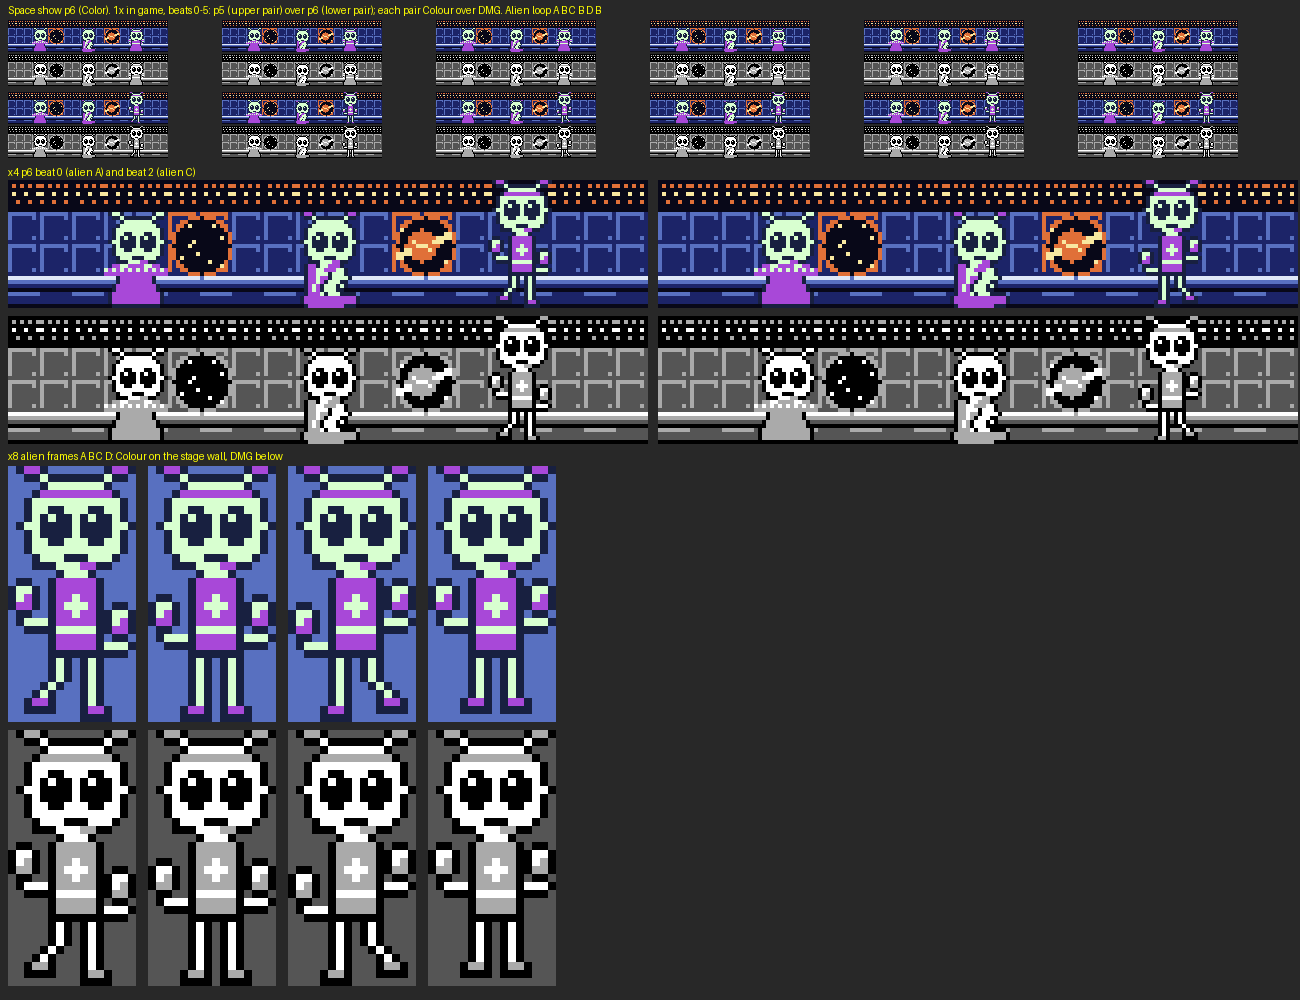
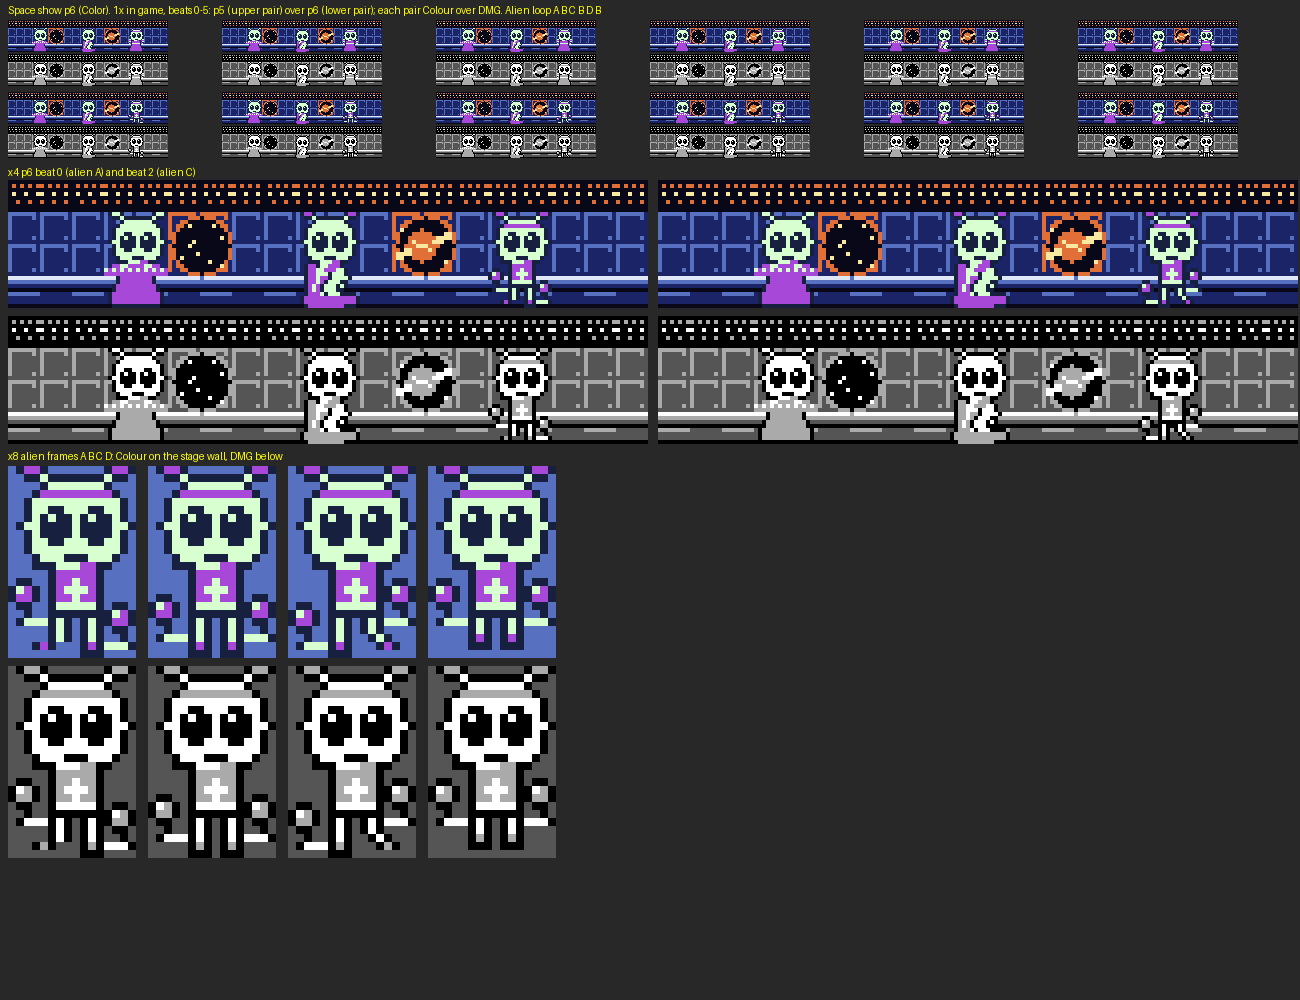
Space show p6: redo the full-body alien as 16x24 in the p5 layout (25 of 48 quarters)
Supervisor correction: the performer top stays at screen y 8. Singer and keytar are p5 frames 0-3 exactly; the alien keeps the p5 head (rows 0-12) with tunic, belt, legs and short boots in rows 13-23, and a handle between each hand and its oval maraca. Same A B C B D B loop. Concept only.

Claude-Session: https://claude.ai/code/session_01WXumg9pvGTKbXyU3qBciuY

diff --git a/docs/dev/concepts/shows_2026-11-02/space_p6prev.py b/docs/dev/concepts/shows_2026-11-02/space_p6prev.py
@@ -5,7 +5,7 @@
   space_p6prev.py sheet OUT.png   contact sheet: 1x, x4, every frame x8 (Colour and DMG)
   space_p6prev.py chk             frame sizes and the 8x16 quarter count of p6
 
-p5: 16x24 frames at strip y 8 (as the engine draws them). p6: 16x32 frames, feet on the same strip row, so row 0 is at strip y 0.
+p5: 16x24 frames at strip y 8 (as the engine draws them). p6: 16x24 frames at the same place as p5 (top at strip y 8).
 Loops: singer 0 1, keytar 2 3, alien frames 4 5 6 5 7 5 (poses A B C B D B).
 """
 import sys
@@ -32,6 +32,7 @@ def load(path, rows):
 def quarters(frames):
     qs = []
     for f in frames:
+        f = list(f) + ["." * 16] * 8
         for y0, x0 in ((0, 0), (0, 8), (16, 0), (16, 8)):
             q = tuple(r[x0:x0 + 8] for r in f[y0:y0 + 16])
             if q not in qs:
@@ -62,7 +63,7 @@ def scene6(fr, beat, cgb, base):
     im, p = base.copy(), pal()
     for k, x0 in enumerate((24, 72, 120)):
         i = (beat & 1) + 2 * k if k < 2 else LOOP_ALIEN[beat % len(LOOP_ALIEN)]
-        put(im, fr[i], x0, 0, cgb, p)
+        put(im, fr[i], x0, 8, cgb, p)
     return im
 
 
@@ -76,7 +77,7 @@ def stack(a, b, scale):
 def main():
     cmd = sys.argv[1]
     p5 = load(str(HERE / "space_show_p5.txt"), 24)
-    p6 = load(str(HERE / "space_show_p6_cgb.txt"), 32)
+    p6 = load(str(HERE / "space_show_p6_cgb.txt"), 24)
     if cmd == "chk":
         print(len(p6), "frames; quarters p6:", quarters(p6), "singer", quarters(p6[0:2]), "keytar", quarters(p6[2:4]),
               "alien", quarters(p6[4:8]))
@@ -111,12 +112,12 @@ def main():
         sh.paste(right(b, 4), (8 + i * 650, 180))
     d.text((8, 450), "x8 alien frames A B C D: Colour on the stage wall, DMG below", fill=(255, 255, 0))
     for i, fi in enumerate((4, 5, 6, 7)):
-        a = Image.new("RGB", (16, 32), ns["hexrgb"](pj["stage_a"]["hex"][1]))
-        g = Image.new("RGB", (16, 32), ns["DMG_BG"][2])
+        a = Image.new("RGB", (16, 24), ns["hexrgb"](pj["stage_a"]["hex"][1]))
+        g = Image.new("RGB", (16, 24), ns["DMG_BG"][2])
         put(a, p6[fi], 0, 0, True, pal())
         put(g, p6[fi], 0, 0, False, pal())
-        sh.paste(a.resize((128, 256), Image.NEAREST), (8 + i * 140, 466))
-        sh.paste(g.resize((128, 256), Image.NEAREST), (8 + i * 140, 730))
+        sh.paste(a.resize((128, 192), Image.NEAREST), (8 + i * 140, 466))
+        sh.paste(g.resize((128, 192), Image.NEAREST), (8 + i * 140, 666))
     sh.crop((0, 0, 1300, 1000)).save(out)
 
 main()
